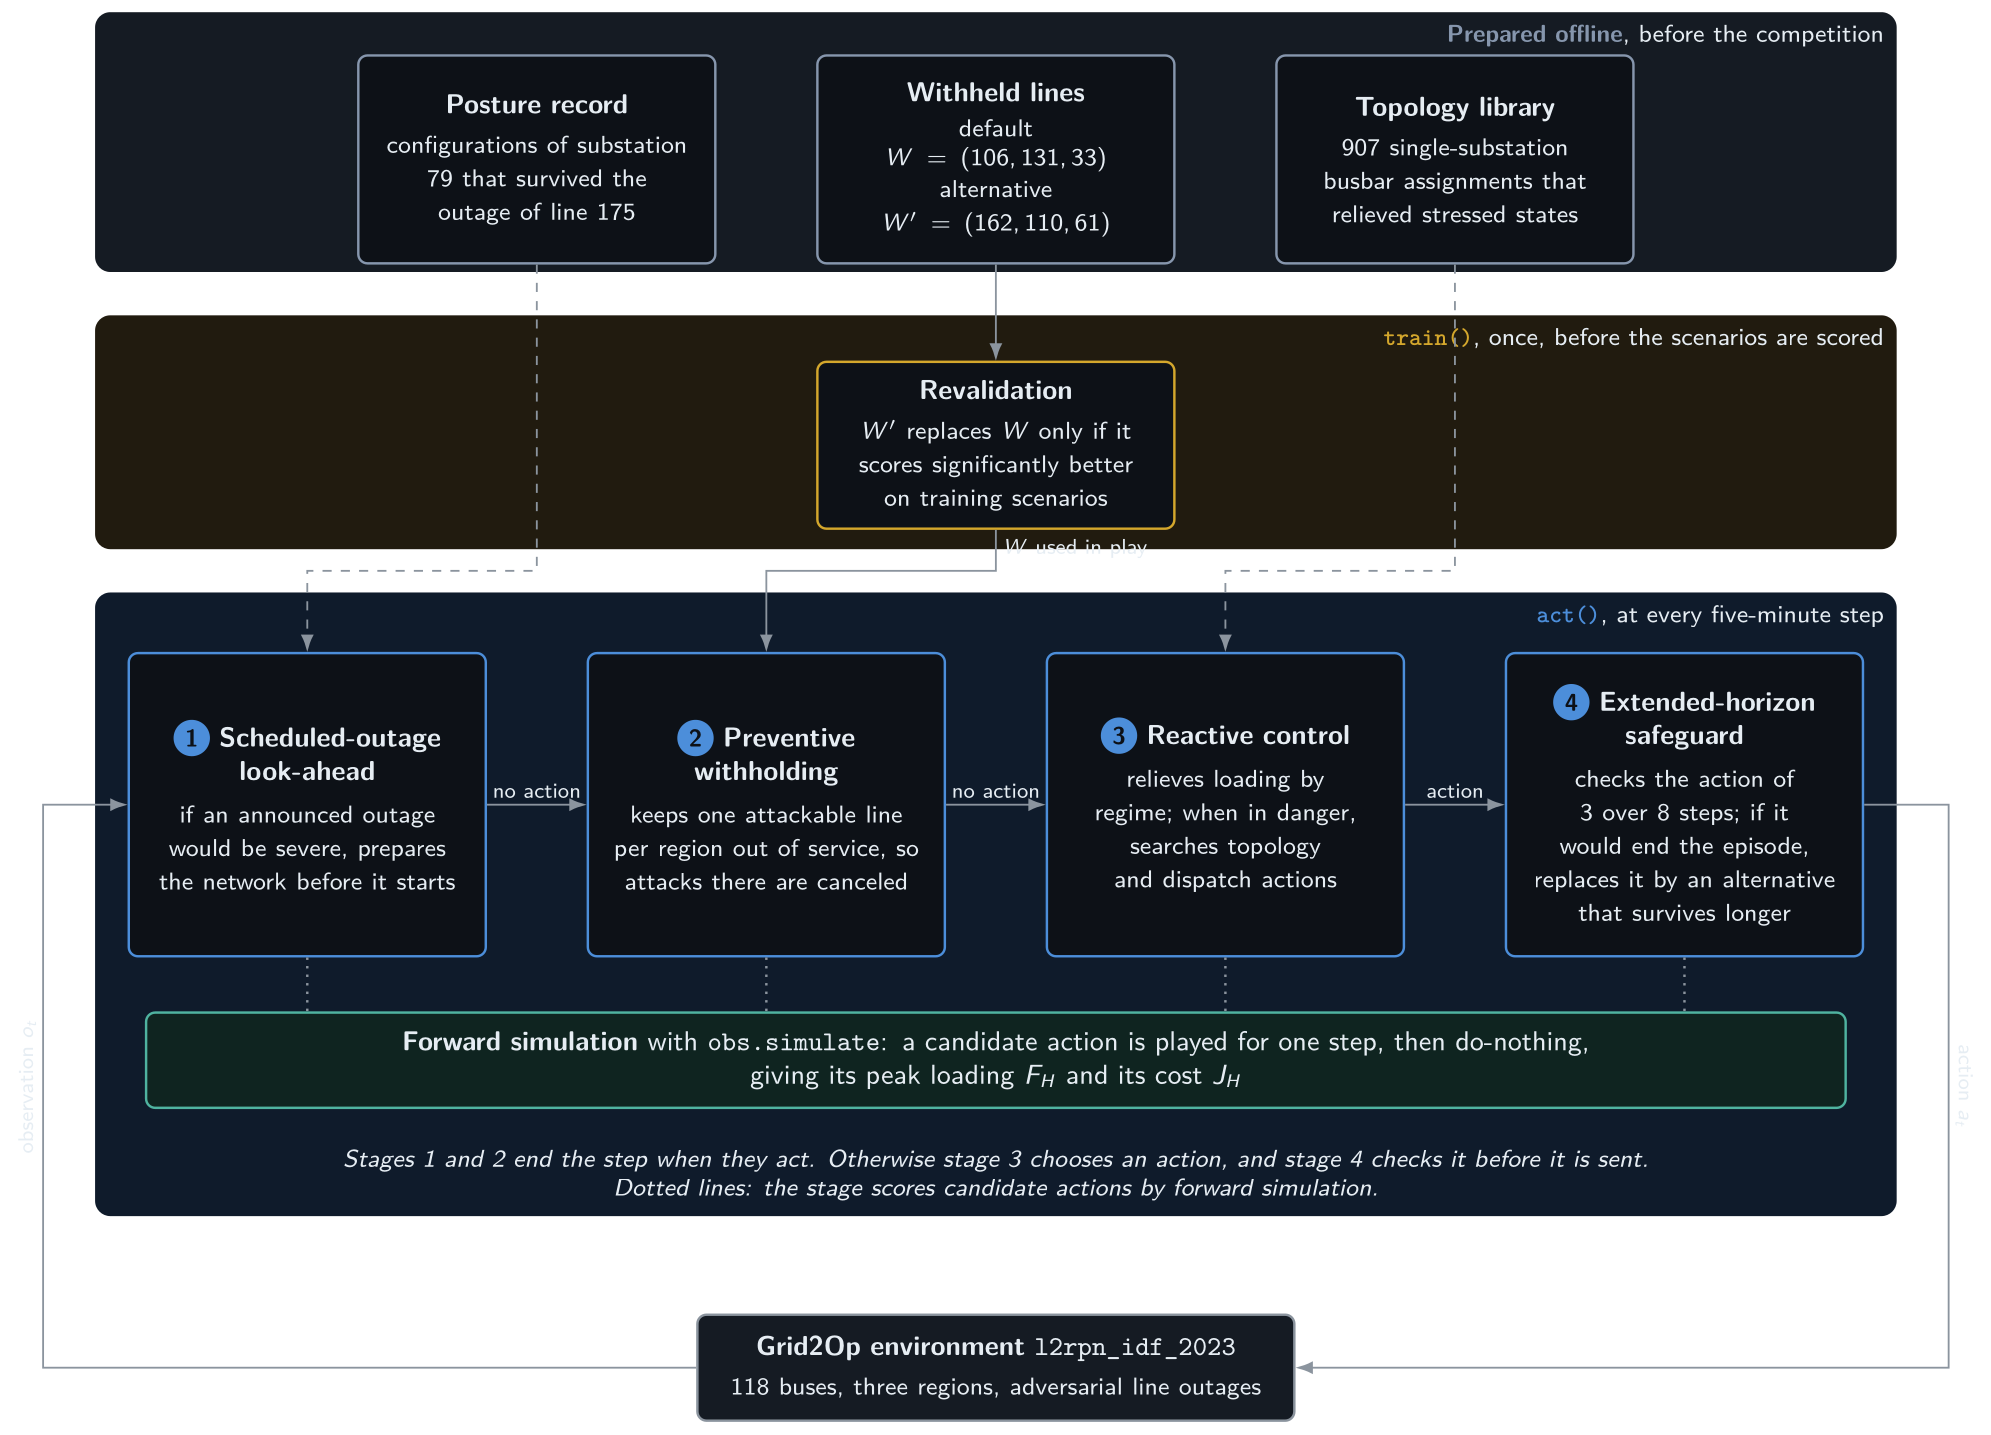
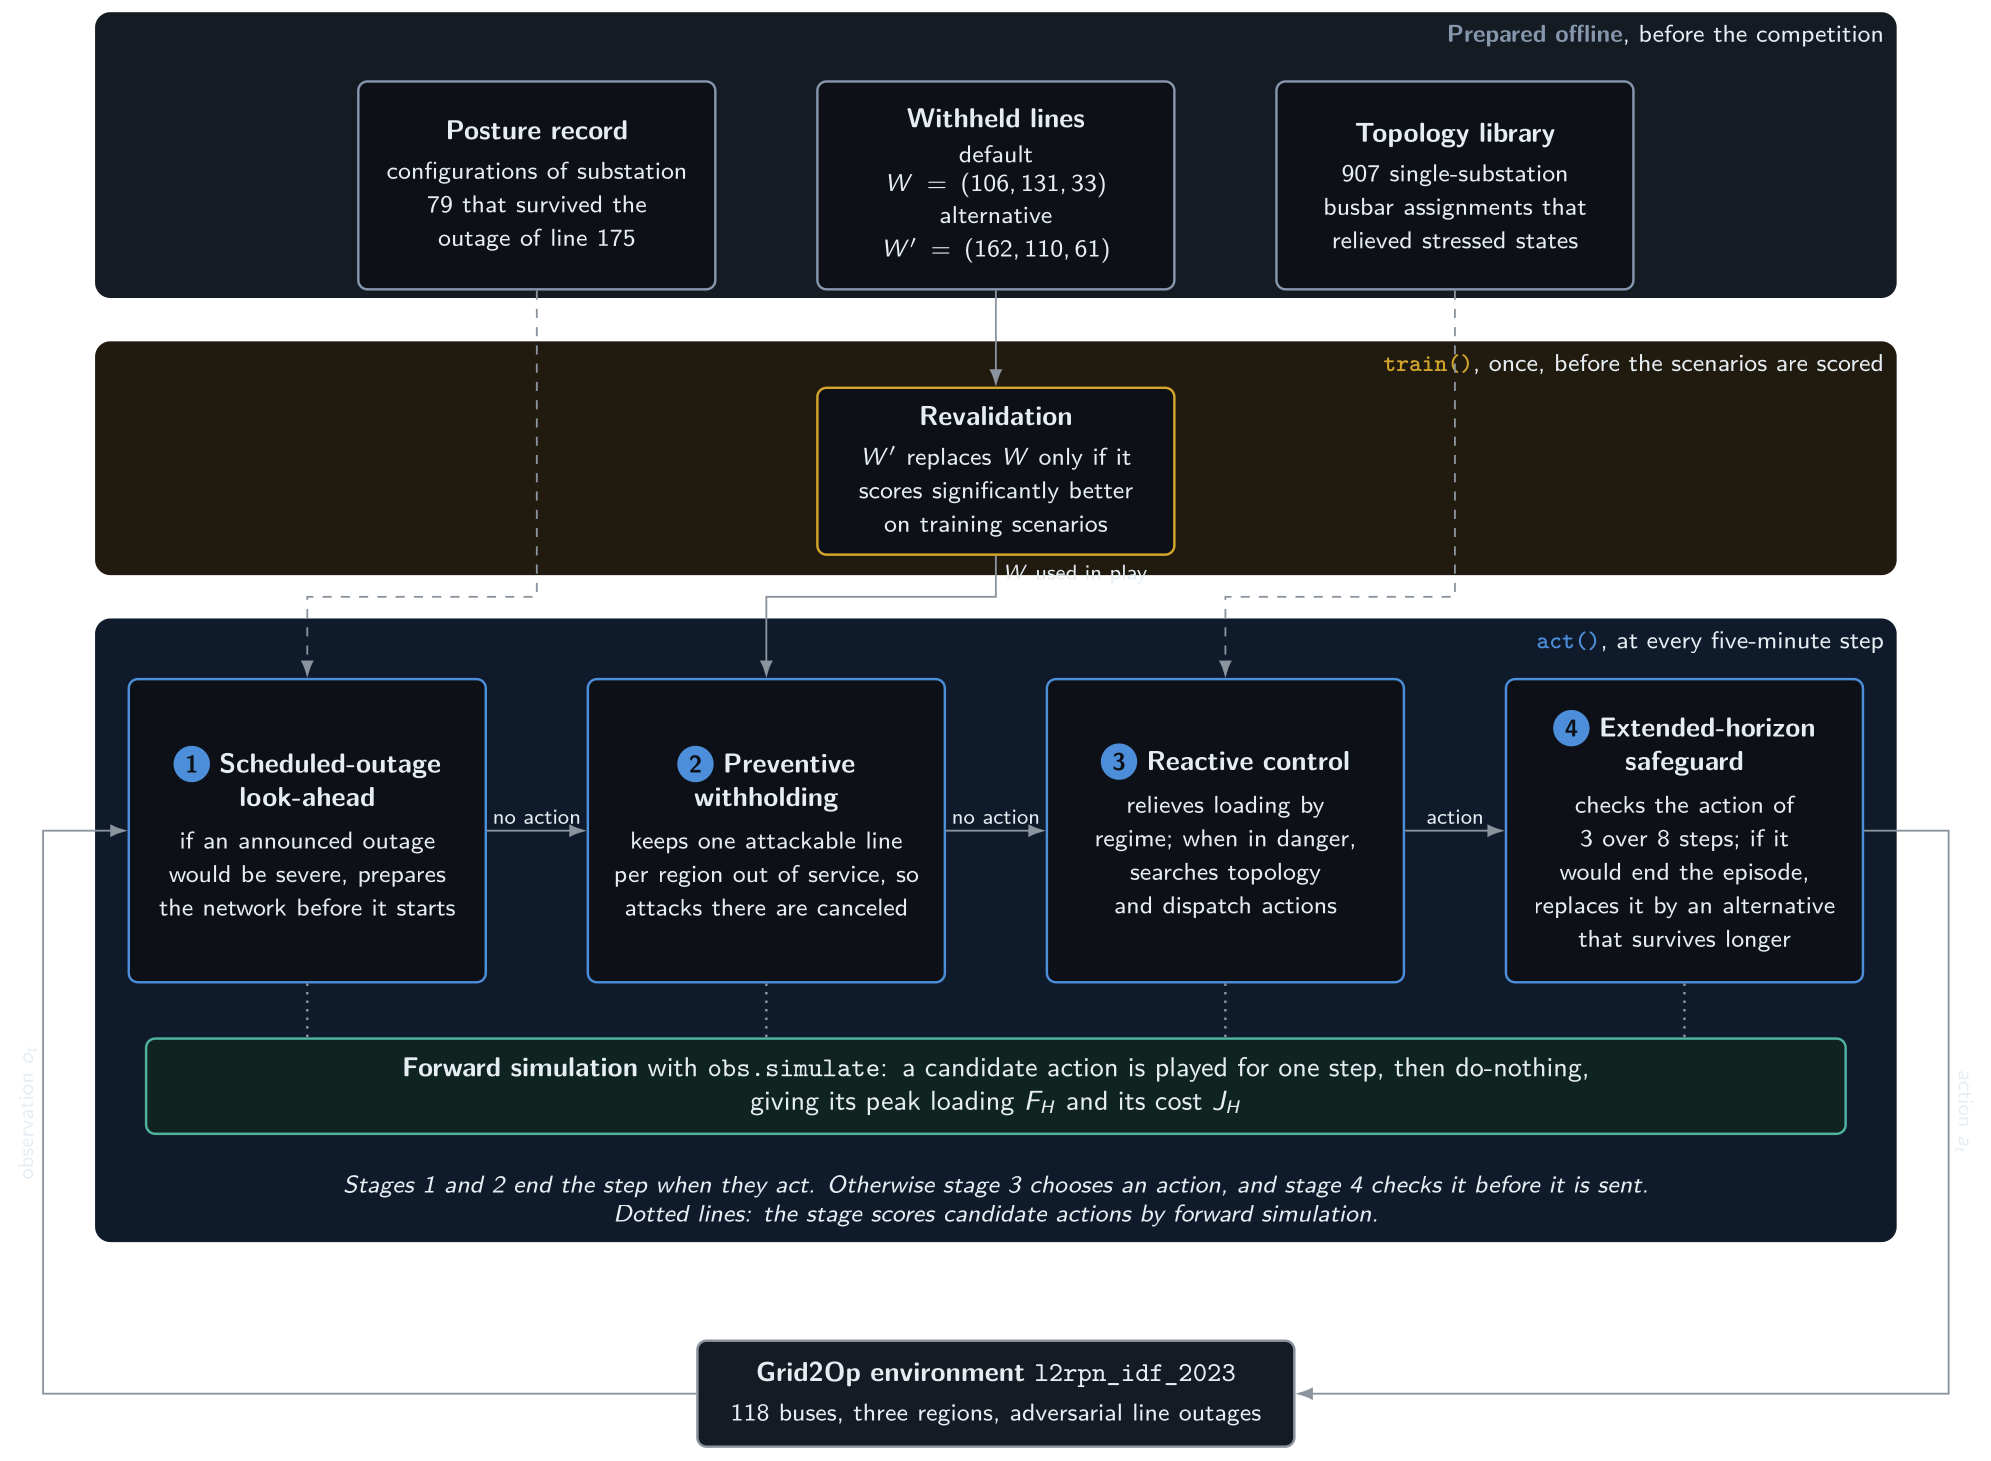
Clearer code comments, stronger light-mode figures + coventional  funding acknowledgment and citation

diff --git a/docs/figures/src/architecture.tex b/docs/figures/src/architecture.tex
@@ -10,12 +10,20 @@
   \definecolor{actband}{HTML}{0F1B2B}\definecolor{actedge}{HTML}{4C8EDA}
   \definecolor{simfill}{HTML}{0F2420}\definecolor{simedge}{HTML}{4FB3A0}
   \definecolor{envfill}{HTML}{151B23}\definecolor{envedge}{HTML}{8B949E}
+  % On a dark page the tinted bands stand out by themselves, so they carry no outline.
+  \newcommand{\bandframe}[3]{\fill[#1, rounded corners=5pt] #3;}
+  \newcommand{\lanetag}[2]{\textcolor{#1}{\textbf{#2}},}
 \else
-  \definecolor{offband}{HTML}{E6EBF1}\definecolor{offedge}{HTML}{50627A}
-  \definecolor{trband}{HTML}{FBEBC6}\definecolor{tredge}{HTML}{8F6505}
-  \definecolor{actband}{HTML}{DCE8F6}\definecolor{actedge}{HTML}{1F5596}
+  \definecolor{offband}{HTML}{EBEFF4}\definecolor{offedge}{HTML}{50627A}
+  \definecolor{trband}{HTML}{FCF1D6}\definecolor{tredge}{HTML}{8F6505}
+  \definecolor{actband}{HTML}{E2ECF8}\definecolor{actedge}{HTML}{1F5596}
   \definecolor{simfill}{HTML}{D3EDE5}\definecolor{simedge}{HTML}{2A7364}
   \definecolor{envfill}{HTML}{E6EBF1}\definecolor{envedge}{HTML}{3F4A56}
+  % On a white page a pale tint alone does not delimit a band: each band gets an outline in its lane
+  % color, and each lane name is set as a solid tag in that color.
+  \newcommand{\bandframe}[3]{\filldraw[fill=#1, draw=#2, line width=1.1pt, rounded corners=5pt] #3;}
+  \newcommand{\lanetag}[2]{\tikz[baseline=(t.base)]\node[fill=#1, text=white, rounded corners=2pt,
+    inner sep=2.5pt, font=\footnotesize\bfseries] (t) {#2};}
 \fi
 \tikzset{
   abox/.style={draw=#1, fill=paper, rounded corners=3pt, line width=\lwstage, align=center,
@@ -27,12 +35,12 @@
   minimum size=4.2mm, font=\footnotesize\bfseries] (b) {#1};}
 \begin{tikzpicture}
 % bands
-\fill[offband, rounded corners=5pt] (-2.45,6.15) rectangle (18.35,9.15);
-\fill[trband, rounded corners=5pt] (-2.45,2.95) rectangle (18.35,5.65);
-\fill[actband, rounded corners=5pt] (-2.45,-4.75) rectangle (18.35,2.45);
-\node[bandlab] at (18.35,9.15) {\textcolor{offedge}{\textbf{Prepared offline}}, before the competition};
-\node[bandlab] at (18.35,5.65) {\textcolor{tredge}{\textbf{\texttt{train()}}}, once, before the scenarios are scored};
-\node[bandlab] at (18.35,2.45) {\textcolor{actedge}{\textbf{\texttt{act()}}}, at every five-minute step};
+\bandframe{offband}{offedge}{(-2.45,6.15) rectangle (18.35,9.45)}
+\bandframe{trband}{tredge}{(-2.45,2.95) rectangle (18.35,5.65)}
+\bandframe{actband}{actedge}{(-2.45,-4.75) rectangle (18.35,2.45)}
+\node[bandlab] at (18.35,9.45) {\lanetag{offedge}{Prepared offline}\ before the competition};
+\node[bandlab] at (18.35,5.65) {\lanetag{tredge}{\texttt{train()}}\ once, before the scenarios are scored};
+\node[bandlab] at (18.35,2.45) {\lanetag{actedge}{\texttt{act()}}\ at every five-minute step};
 % offline inputs
 \node[abox=offedge, minimum height=24mm] (rec) at (2.65,7.45) {\textbf{Posture record}\\[2pt]\footnotesize configurations of substation 79 that survived the outage of line 175};
 \node[abox=offedge, minimum height=24mm] (wset) at (7.95,7.45) {\textbf{Withheld lines}\\[2pt]\footnotesize default\\$W=(106,131,33)$\\[1pt]alternative\\$W'=(162,110,61)$};
